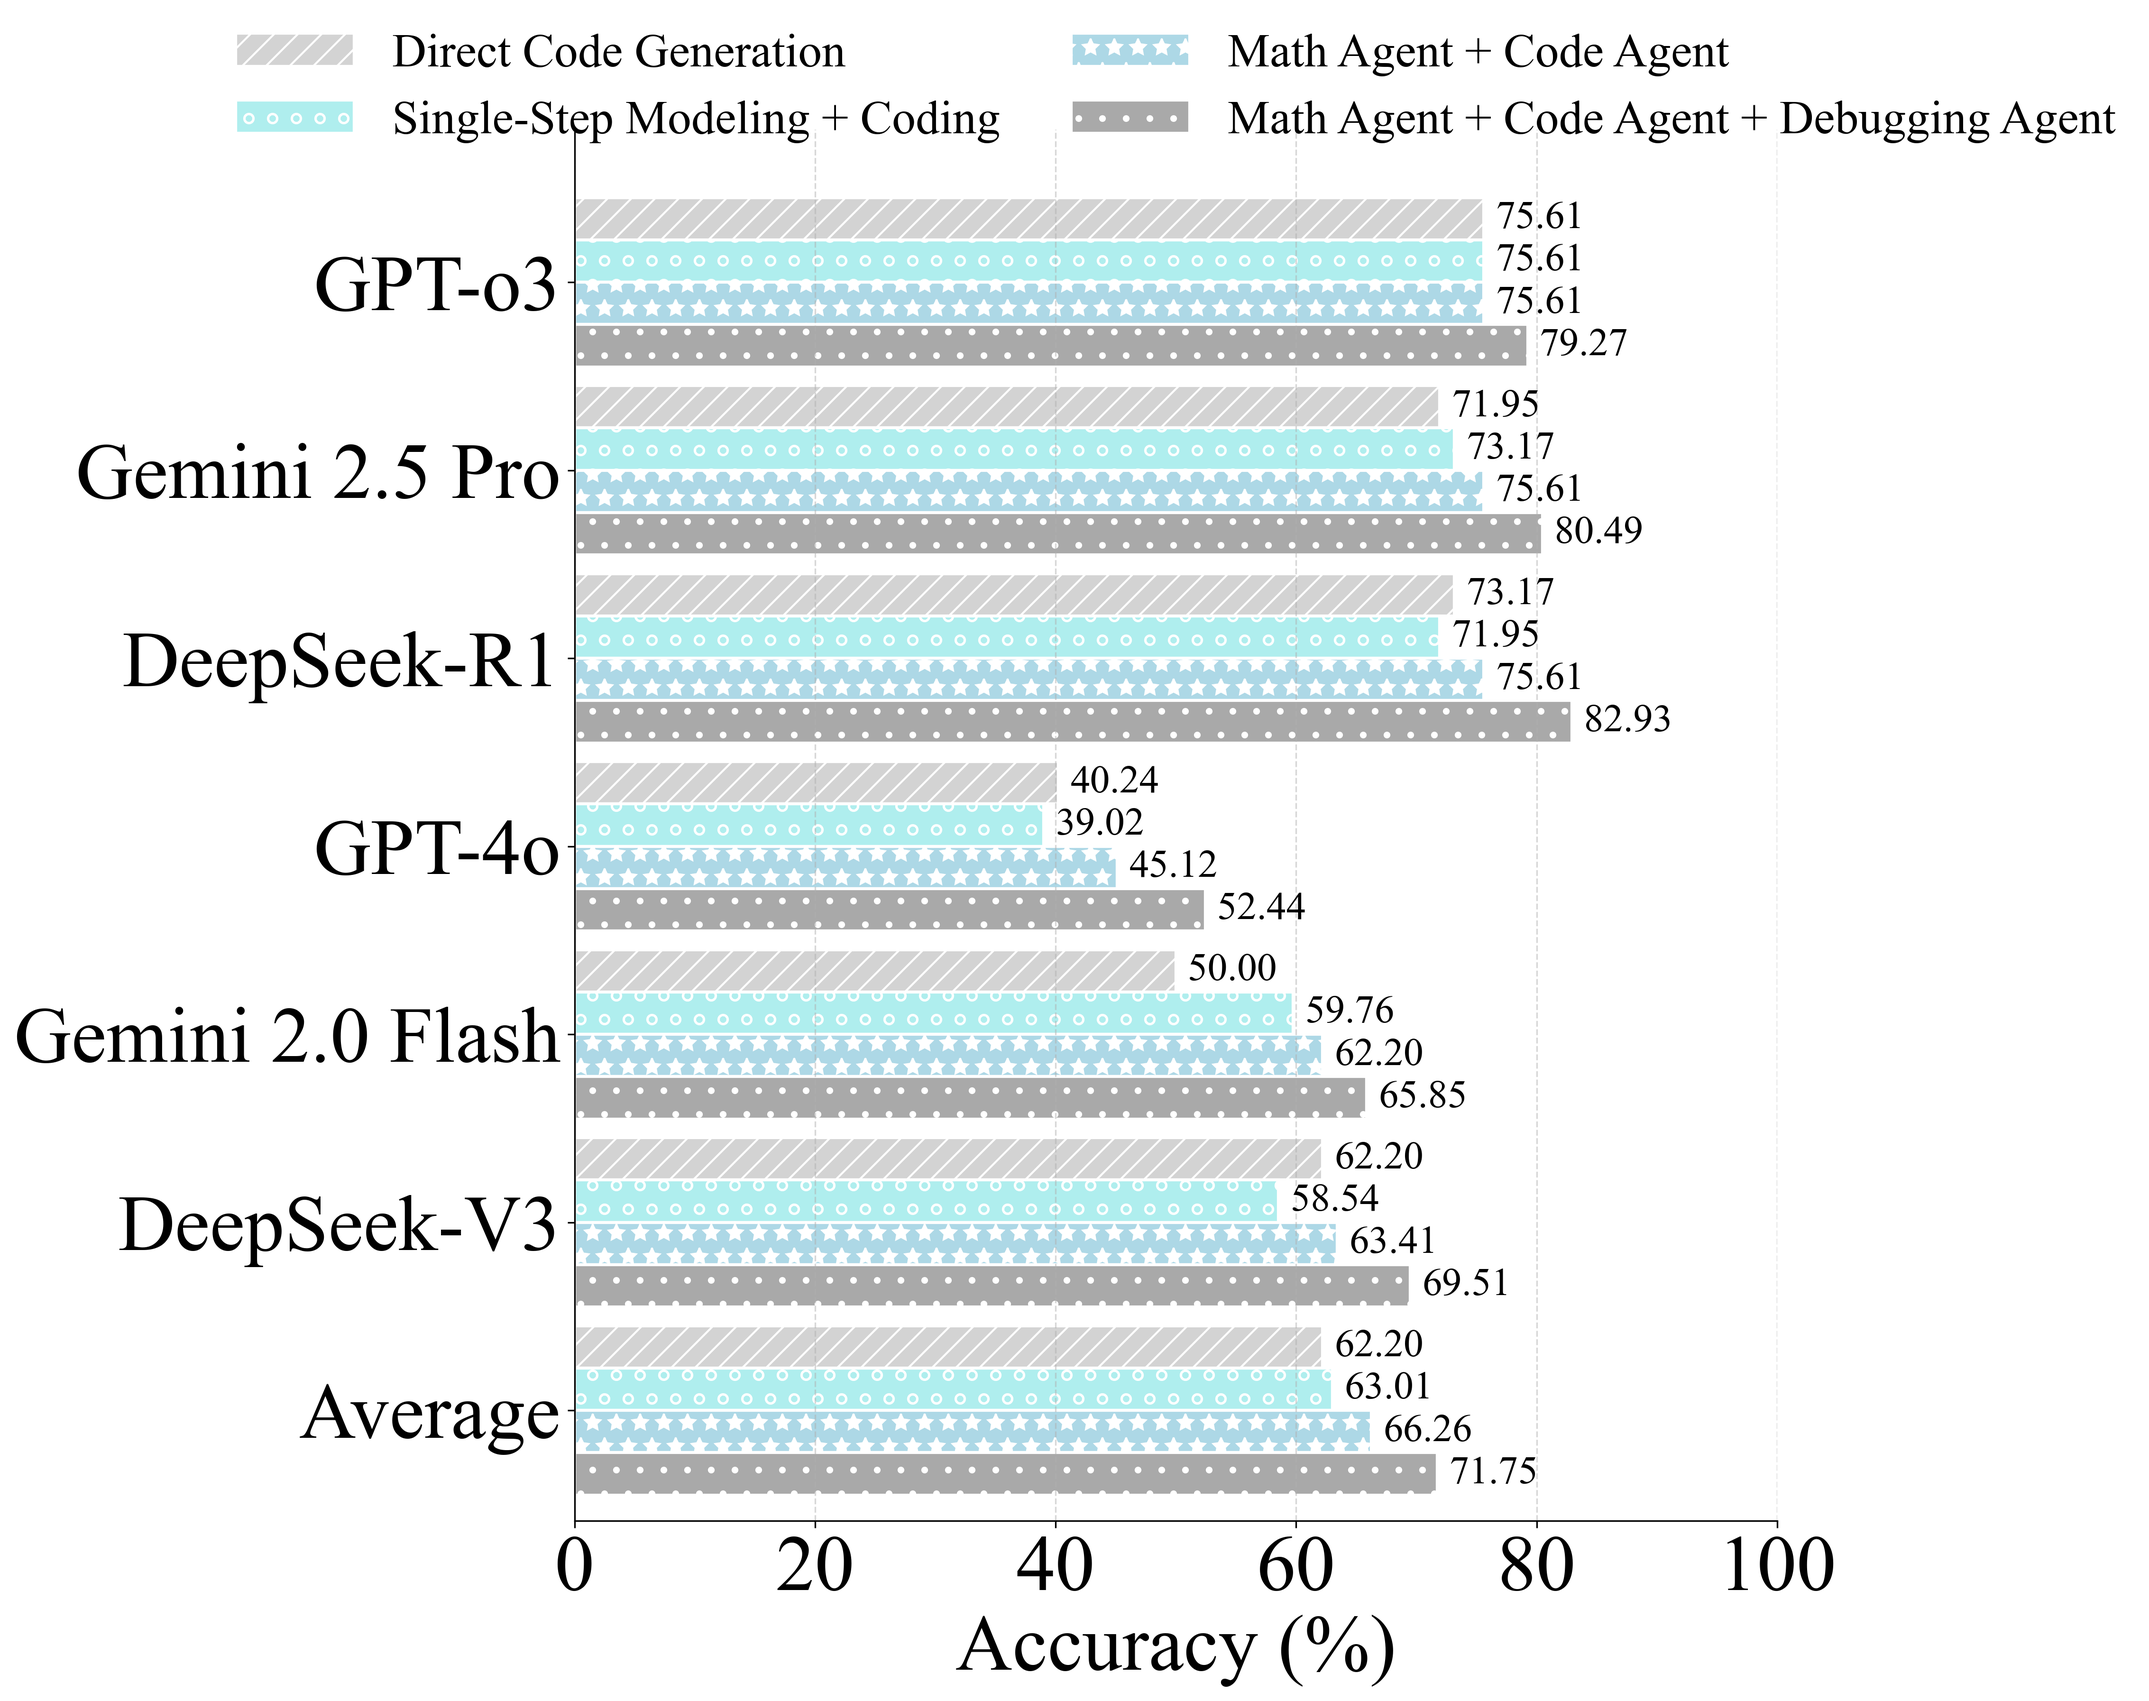
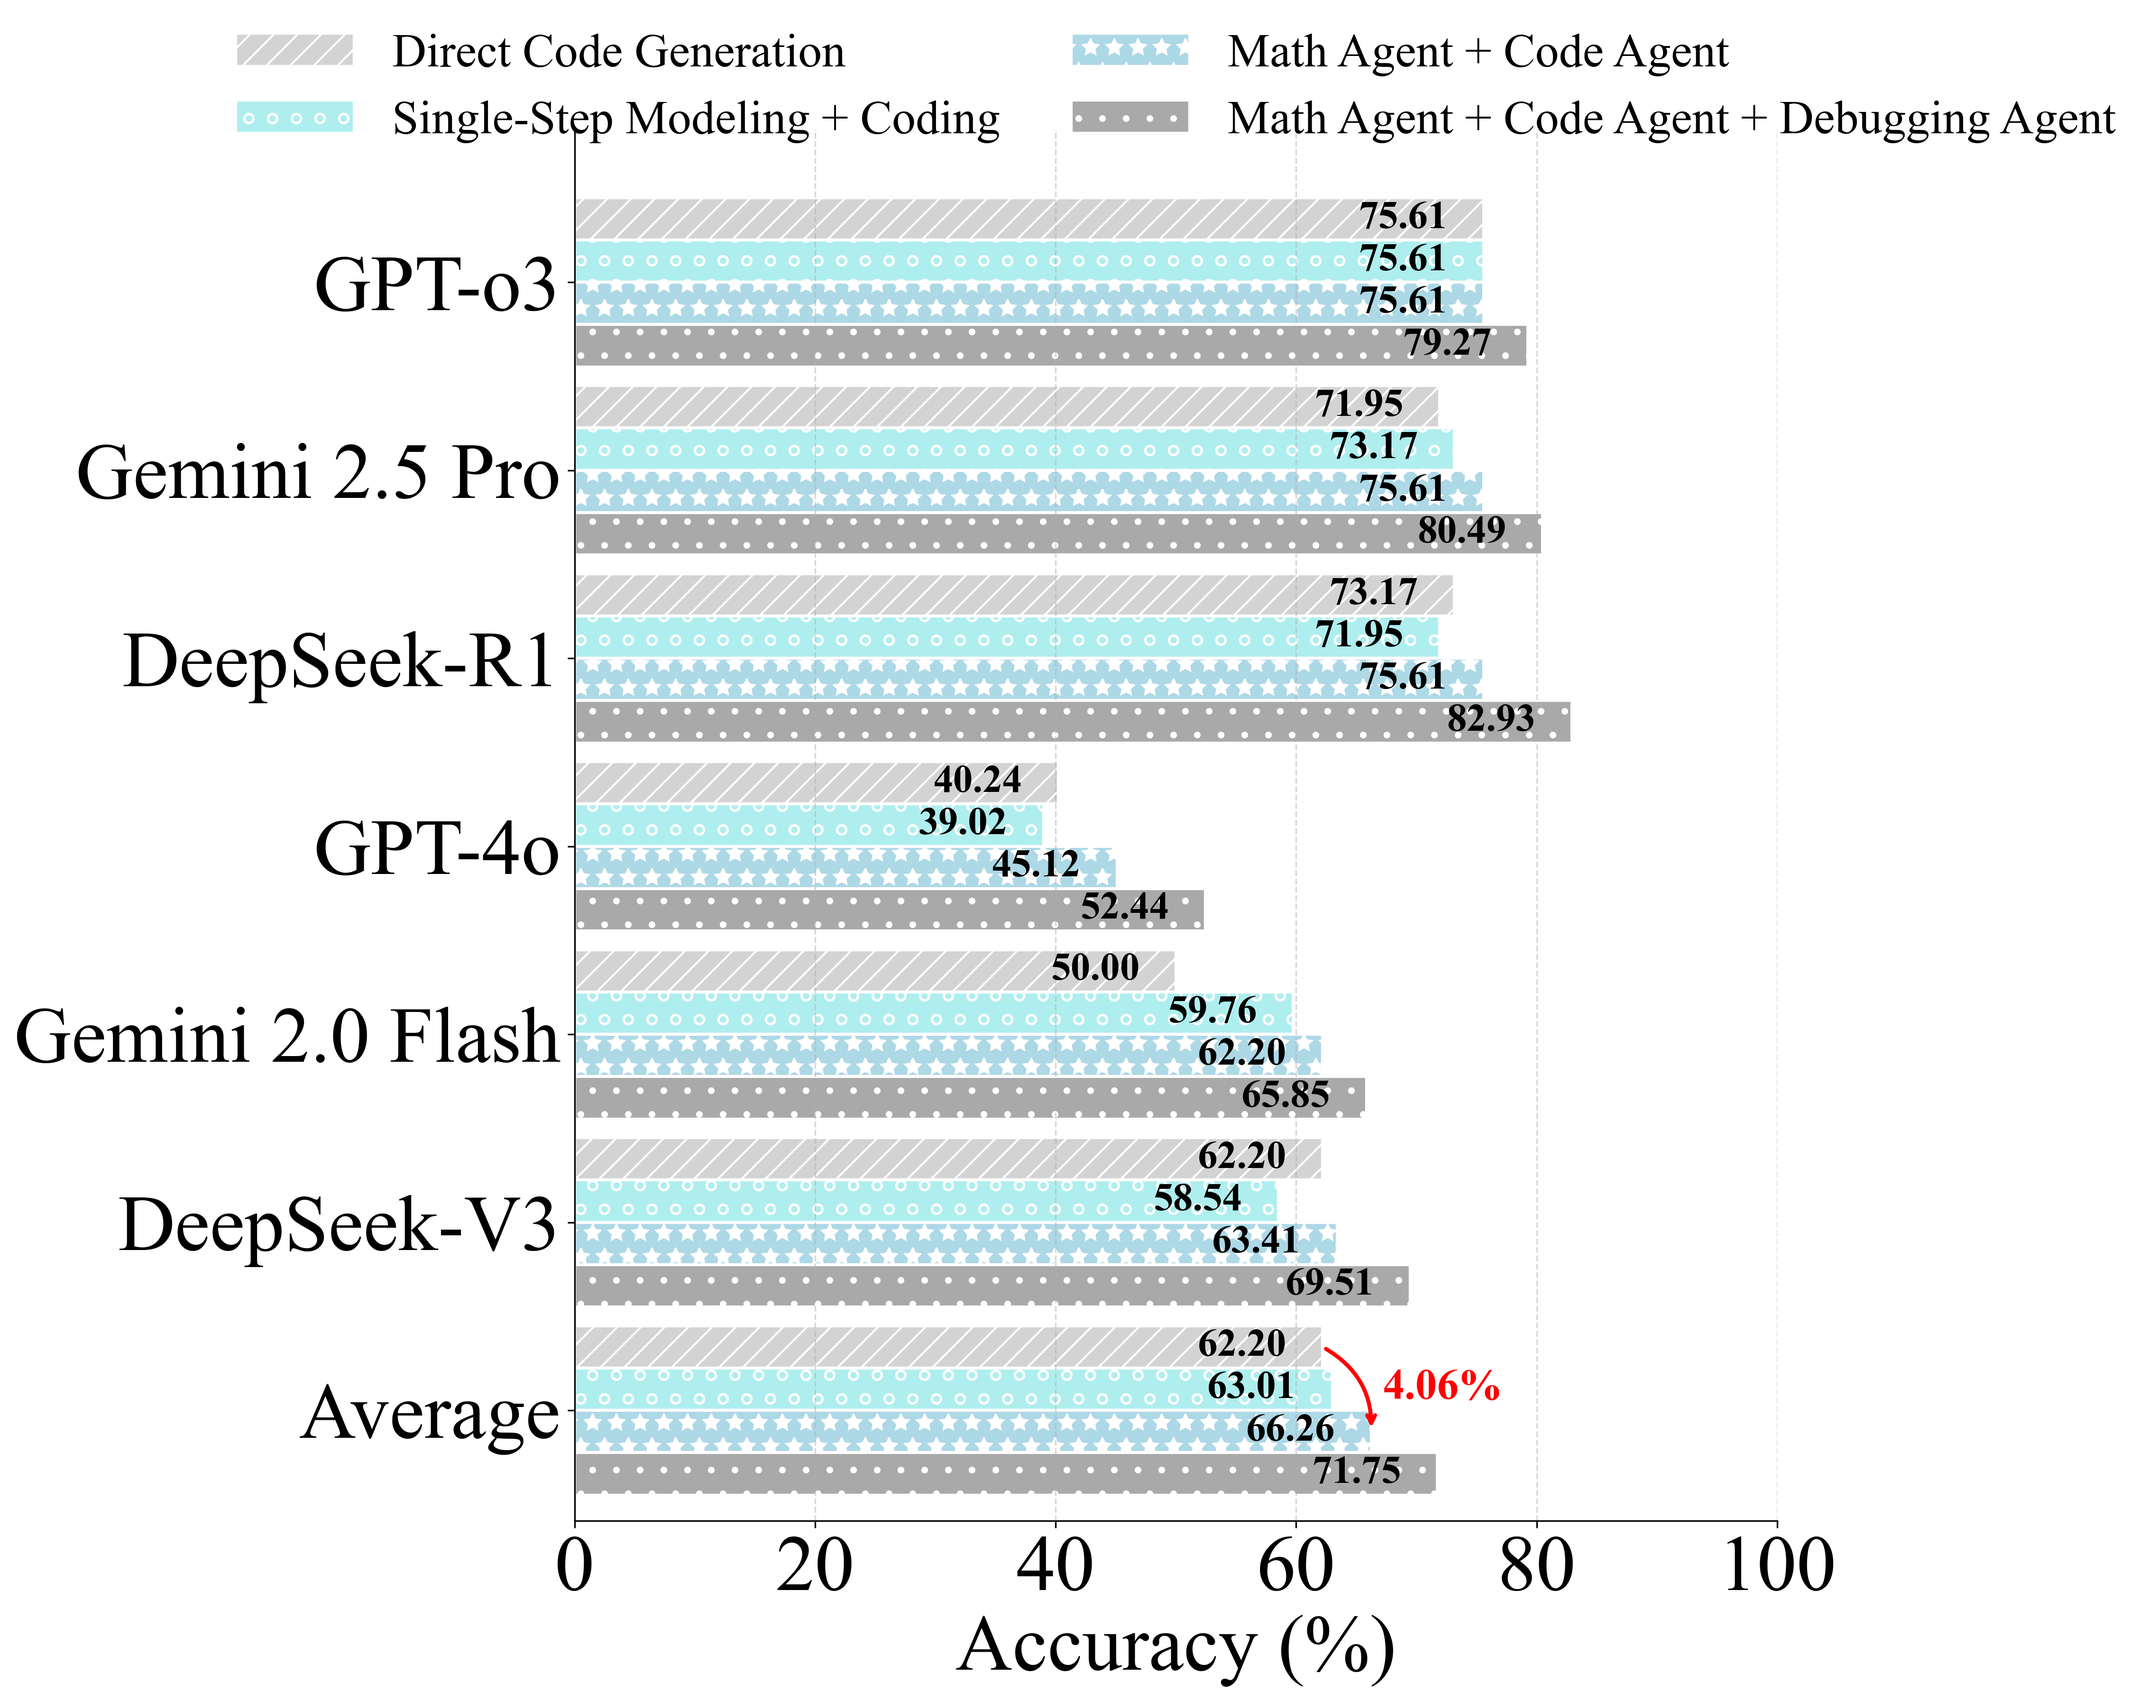
add compare in bar_agent_mode

diff --git a/data/bar_agent_mode.py b/data/bar_agent_mode.py
@@ -56,11 +56,12 @@ for i, method in enumerate(methods):
                    label=method, color=colors[i], hatch=hatches[i],
                    edgecolor='white', linewidth=1.5)
     
-    # 添加右侧数值标签
+    # 添加条形内部数值标签
     for bar in bars:
         width = bar.get_width()
-        ax.text(width + 1, bar.get_y() + bar.get_height() / 2,
-                f'{width:.2f}', ha='left', va='center', fontsize=20)
+        ax.text(width - 3, bar.get_y() + bar.get_height() / 2,
+                f'{width:.2f}', ha='right', va='center', fontsize=20, 
+                color='black', weight='bold')
 
 # 设置坐标轴标签和刻度
 ax.set_xlabel("Accuracy (%)", fontsize=40)
@@ -74,6 +75,26 @@ ax.grid(axis='x', linestyle='--', alpha=0.5)
 # 移除顶部和右侧边框线
 ax.spines['top'].set_visible(False)
 ax.spines['right'].set_visible(False)
+
+# 添加从"Direct Code Generation"到"Math Agent + Code Agent"的弯曲箭头（Average组）
+# Average组的y坐标是y[0]，Direct Code Generation在reverse_i=3位置，Math Agent + Code Agent在reverse_i=1位置
+avg_group_y = y[0]
+direct_code_y = avg_group_y + 2.5 * bar_width  # Direct Code Generation位置
+math_agent_code_y = avg_group_y + 0.5 * bar_width  # Math Agent + Code Agent位置
+direct_code_x = 62.20  # Direct Code Generation的值
+math_agent_code_x = 66.26  # Math Agent + Code Agent的值
+
+# 添加弯曲箭头
+ax.annotate('', xy=(math_agent_code_x, math_agent_code_y + bar_width/2), 
+            xytext=(direct_code_x, direct_code_y + bar_width/2),
+            arrowprops=dict(arrowstyle='->', connectionstyle='arc3,rad=-0.3', 
+                          color='red', lw=2))
+
+# 添加"4.06%"标签 - 移到箭头左侧
+arrow_mid_x = direct_code_x + 10  # 移到起点左侧
+arrow_mid_y = (direct_code_y + math_agent_code_y) / 2 + bar_width/2
+ax.text(arrow_mid_x, arrow_mid_y, '4.06%', fontsize=22, color='red', 
+        weight='bold', ha='center', va='center')
 
 # 图例放在顶部，两行排列
 ax.legend(title="", loc="upper center", bbox_to_anchor=(0.5, 1.1),
